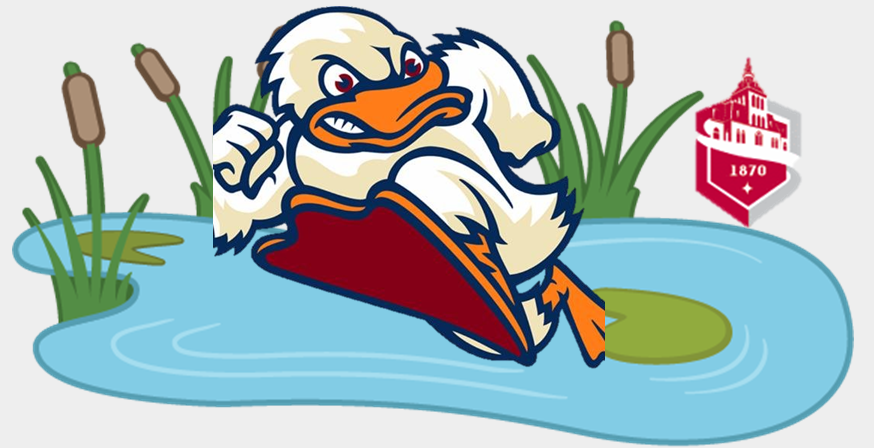
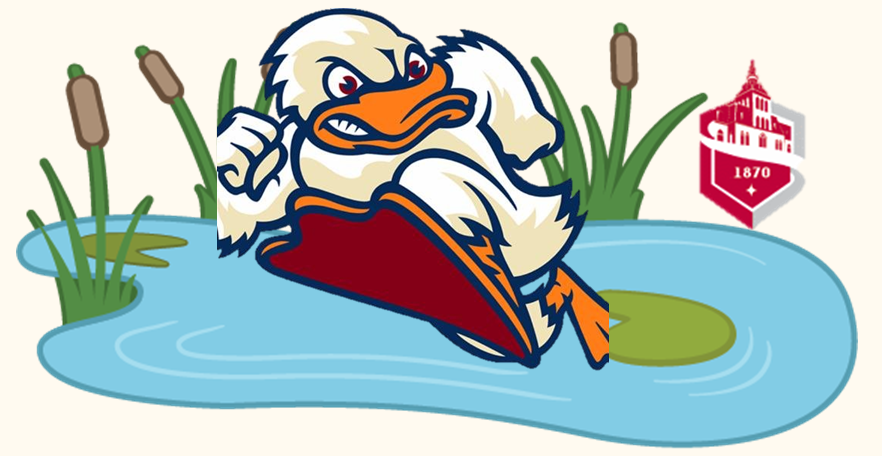
the judges won't know what hit 'em

Changed region(s): [[0.0, 0.0, 0.9886, 1.0], [0.7723, 0.6562, 0.8341, 0.6875], [0.9268, 0.5938, 0.9577, 0.625]]

diff --git a/fetchEvents.html b/fetchEvents.html
@@ -5,8 +5,8 @@
 <style type="text/css">
 #duck {
   position: absolute;
-  top:45px;
-  left:5px;
+  bottom:0;
+  right:0;
 }
 #checkboxes {text-align:left;
   position: absolute;
